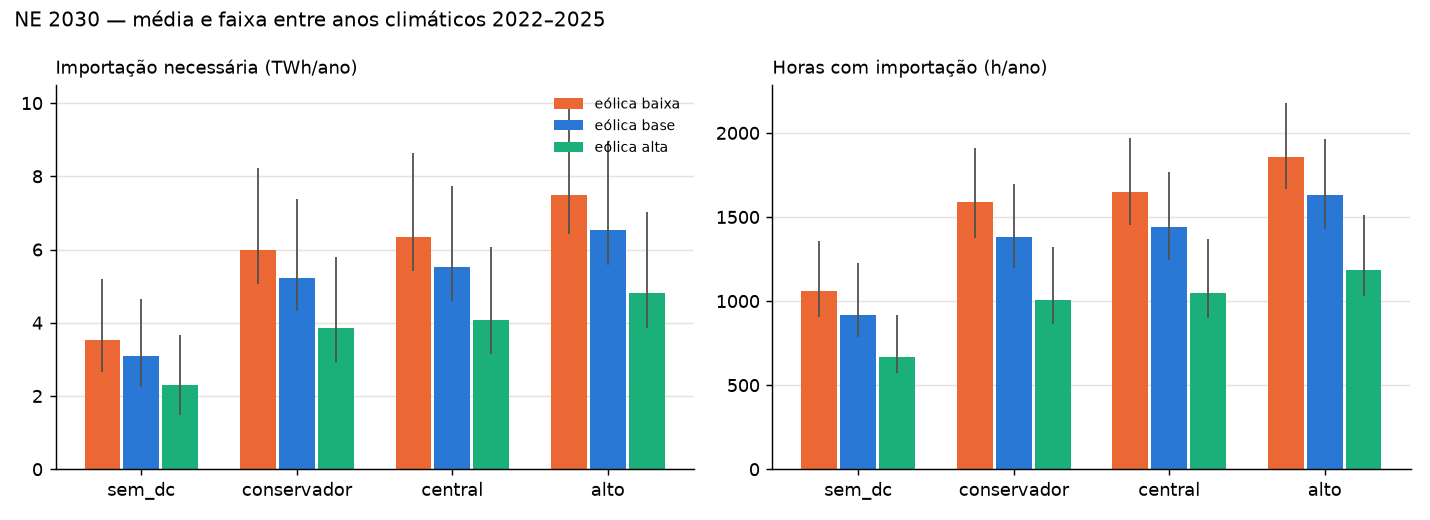
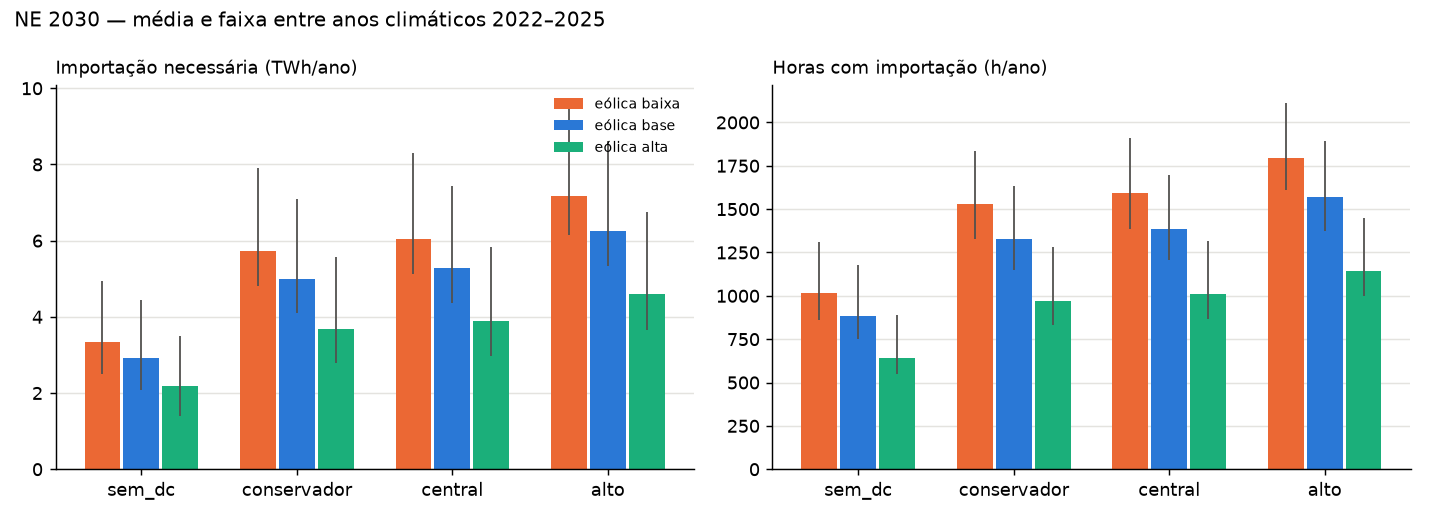
Revisão de hipóteses: base de carga e MMGD pela 2ª RQ do PLAN 2026-2030
- config/plan_2rq_ne.csv: carga global e MMGD do NE (2ª RQ, ago/2026)
- carga base 2030 sem DC = 16.180 MWmed; MMGD = 2.386 MWmed (sem dupla
  contagem com os cenários de data centers); PDE vira sensibilidade
- simulador: sensibilidades univariadas (PDE, MMGD, carga ±5%,
  hidráulica plana); resultados, relatório do Dia 2, STATUS e decisões 29-31

diff --git a/src/sim/deterministico.py b/src/sim/deterministico.py
@@ -4,8 +4,8 @@ Uso: python -m src.sim.deterministico
 Saídas: reports/sim/resultados_2030.csv, compensacao_eolica_2030.csv, resumo.md, figuras s*.png
 
 Para cada ano climático y (2022–2025), cenário de data centers e cenário eólico:
-  L_gross(t) = forma_y(t) × L̄_gross,2030                  (PDE referência)
-  MMGD(t)    = forma_MMGD,y(t) × MMGD̄_2030
+  L_gross(t) = forma_y(t) × L̄_gross,2030 sem DC          (2ª RQ PLAN 2026-2030)
+  MMGD(t)    = forma_MMGD,y(t) × MMGD̄_2030                (2ª RQ PLAN 2026-2030)
   G_c(t)     = hid_y(t) + ter_y(t) + k_eol,y·CF_eol,y(t)·Cap_eol + k_sol,y·CF_sol,y(t)·Cap_sol
   M(t)       = G_c(t) − [L_gross(t) − MMGD(t) + L_DC]      (regra 6; MMGD como geração distribuída)
   importação = max(0, −M); excedente = max(0, M)
@@ -62,14 +62,15 @@ def fleet_factors(X: pd.DataFrame) -> pd.DataFrame:
     return pd.DataFrame(rows).T
 
 
-def profiles(X: pd.DataFrame, y: int, c: dict, ff: pd.DataFrame, mmgd_fator: float | None = None) -> pd.DataFrame:
+def profiles(X: pd.DataFrame, y: int, c: dict, ff: pd.DataFrame, mmgd_MWmed: float | None = None,
+             L_gross_MWmed: float | None = None, hidraulica_plana: bool = False) -> pd.DataFrame:
     g = X[X.ano == y].set_index("t")
     p = pd.DataFrame(index=g.index)
-    Lg = c["carga"]["L_gross_media_MWmed"]["valor"]
+    Lg = L_gross_MWmed if L_gross_MWmed is not None else c["carga"]["L_gross_sem_dc_MWmed"]["valor"]
     p["L_gross"] = g.L_gross / g.L_gross.mean() * Lg
-    fm = mmgd_fator if mmgd_fator is not None else c["mmgd"]["fator_2025_2030"]["valor"]
-    p["MMGD"] = g.MMGD / g.MMGD.mean() * c["mmgd"]["base_2025_MWmed"]["valor"] * fm
-    p["hid"] = g.hid
+    mm = mmgd_MWmed if mmgd_MWmed is not None else c["mmgd"]["media_2030_MWmed"]["valor"]
+    p["MMGD"] = g.MMGD / g.MMGD.mean() * mm
+    p["hid"] = g.hid if not hidraulica_plana else pd.Series(g.hid.mean(), index=g.index)
     p["ter"] = g.ter
     p["cf_eol"] = g.cf_eol_pot * ff.loc[y, "k_eol"]
     p["cf_sol"] = g.cf_sol_pot.fillna(g.cf_sol_obs) * ff.loc[y, "k_sol"]
@@ -199,6 +200,28 @@ def run(X: pd.DataFrame | None = None):
     return R, pd.DataFrame(comp_rows), ff, pd.concat(dc_parts)
 
 
+def sensibilidades(X: pd.DataFrame, c: dict, d: dict, ff: pd.DataFrame) -> pd.DataFrame:
+    """Sensibilidades univariadas sobre o caso central (DC central, eólica base), pareadas por ano."""
+    cap_sol = c["solar"]["capacidade_2030_MW"]["valor"]
+    cap_eol = c["eolica"]["capacidade_2030_MW"]["base"]["valor"]
+    ldc = l_dc_2030("central", d)[0]
+    pde = c["carga"]["sensibilidade_pde"]
+    casos = {"referencia": {}, "sem_dc": {"ldc": 0.0},
+             "base_PDE_2035_(dc_embutido_descontado)": {"L": pde["L_gross_MWmed"], "ldc": ldc - pde["desconto_dc_embutido_MWmed"]},
+             "MMGD_baixa": {"mm": c["mmgd"]["faixa_sensibilidade_MWmed"]["valores"][0]},
+             "MMGD_alta": {"mm": c["mmgd"]["faixa_sensibilidade_MWmed"]["valores"][1]},
+             "carga_-5%": {"L": c["carga"]["L_gross_sem_dc_MWmed"]["valor"] * 0.95},
+             "carga_+5%": {"L": c["carga"]["L_gross_sem_dc_MWmed"]["valor"] * 1.05},
+             "hidraulica_plana": {"hp": True}}
+    rows = []
+    for nome, k in casos.items():
+        for y in c["anos_climaticos_calibracao"]:
+            p = profiles(X, y, c, ff, mmgd_MWmed=k.get("mm"), L_gross_MWmed=k.get("L"), hidraulica_plana=k.get("hp", False))
+            m = balance_metrics(margin(p, cap_eol, cap_sol, k.get("ldc", ldc)), c)
+            rows.append({"caso": nome, "ano_climatico": y, **m})
+    return pd.DataFrame(rows)
+
+
 def main() -> None:
     OUT.mkdir(parents=True, exist_ok=True)
     R, C, ff, P = run()
@@ -229,6 +252,12 @@ def main() -> None:
     axes[0].legend(frameon=False, fontsize=8)
     fig.suptitle("NE 2030 — média e faixa entre anos climáticos 2022–2025", x=0.01, ha="left", fontsize=11)
     fig.tight_layout(); fig.savefig(FIGURES / "s1_importacao_cenarios_2030.png", dpi=130); plt.close(fig)
+    c, d = load_cfg()
+    X = pd.read_parquet(PROCESSED / "ne_features_h.parquet")
+    X = X[X.t < "2026-11-01"].reset_index(drop=True)
+    SE = sensibilidades(X, c, d, ff)
+    SE.to_csv(OUT / "sensibilidades_2030.csv", index=False)
+    print(SE.groupby("caso", sort=False)[["importacao_TWh", "horas_importacao", "importacao_p95_MW"]].mean().round(2).to_string())
     print(ff.round(3).to_string())
     print(S.xs("mean", axis=1, level=1).to_string())
     print(C.groupby(["cenario_dc", "cenario_eolico"]).mean(numeric_only=True).round(0).to_string())

diff --git a/tests/test_cenarios_dc.py b/tests/test_cenarios_dc.py
@@ -27,3 +27,12 @@ def test_cenarios_referenciam_ids_existentes():
     for nome, cen in c["cenarios"].items():
         for comp in cen["componentes"]:
             assert set(comp.get("ids", [])) <= ids, nome
+
+
+def test_plan_2rq_ne_base_sem_dc():
+    p = pd.read_csv(CONFIG / "plan_2rq_ne.csv").set_index(["variavel", "ano"]).mwmed
+    of = pd.read_csv(CONFIG / "dc_trajetoria_oficial_ne.csv")
+    dc30 = of[(of.estudo == "2a RQ PLAN 2026-2030") & (of.ano == 2030) & (of.componente == "total")].mwmed.iat[0]
+    c = yaml.safe_load(open(CONFIG / "cenarios.yaml", encoding="utf-8"))
+    assert c["carga"]["L_gross_sem_dc_MWmed"]["valor"] == p[("carga_global", 2030)] - dc30 == 16180
+    assert c["mmgd"]["media_2030_MWmed"]["valor"] == p[("mmgd_total", 2030)]

diff --git a/STATUS.md b/STATUS.md
@@ -1,6 +1,6 @@
 # STATUS — Estudo Eólica × Data Centers (NE, 2030)
 
-Última atualização: 2026-11-11 · Etapas concluídas: **Dia 1** (ambiente, coleta, auditoria) e **Dia 2** (modelos, cenários, simulador determinístico) · Próxima: **Dia 3 — incerteza (Monte Carlo), sensibilidades e relatório final**.
+Última atualização: 2026-11-12 (revisão de hipóteses) · Etapas concluídas: **Dia 1** (ambiente, coleta, auditoria) e **Dia 2** (modelos, cenários, simulador determinístico) · Próxima: **Dia 3 — incerteza (Monte Carlo), sensibilidades e relatório final**.
 
 ## 1. Ambiente e repositório
 
@@ -8,7 +8,7 @@
 - Git local com identidade configurada só neste repositório (MateusMenezes65). Histórico em `git log`. Nenhum dado bruto, intermediário ou processado é versionado.
 - `AGENTS.md` e o plano orientador estão preservados. Onde divergem, vale o AGENTS.md (horizonte 2030).
 - Comandos reproduzíveis: README (Dia 1 e Dia 2).
-- Testes: `pytest -q` → **22 aprovados**:
+- Testes: `pytest -q` → **23 aprovados**:
   - fuso horário, agregação 30 min → hora, MW×h = MWh, cardinalidade da junção;
   - fechamento do balanço, quebra da MMGD, identidade carga global = líquida + MMGD;
   - extração do PDE e trajetória oficial de data centers;
@@ -39,7 +39,7 @@ Principais achados do Dia 1:
 Relatório: `reports/dia2_modelos_cenarios.md`.
 
 - **PDE 2035** (`config/pde2035_extraido.csv`, 213 valores, cada um com fonte):
-  - carga do NE, referência: 16.340 MWmed em 2030;
+  - carga do NE, referência: 16.340 MWmed em 2030 (agora só como sensibilidade);
   - MMGD do Brasil: 40,0 → 60,3 GW;
   - expansão indicativa de eólica no SIN: +5,1 GW até 2030;
   - exportação do NE limitada a 21 GW a partir de 2030; nenhum limite de importação documentado.
@@ -47,11 +47,11 @@ Relatório: `reports/dia2_modelos_cenarios.md`.
   - trajetória oficial da 2ª RQ do PLAN 2026–2030: 2.098 MWmed no NE em 2030;
   - inventário de 17 projetos (`config/data_centers_ne.csv`);
   - cenários em `config/cenarios_dc.yaml`: sem_dc 0, conservador 1.886, central 2.098, alto 2.753 MWmed.
-- **Cenários do balanço** (`config/cenarios.yaml`):
+- **Cenários do balanço** (`config/cenarios.yaml`), revisados com o usuário em 2026-11-12:
+  - carga base sem data centers = 16.180 MWmed e MMGD = 2.386 MWmed, ambos da 2ª RQ do PLAN 2026–2030 (`config/plan_2rq_ne.csv`); assim não há dupla contagem com os cenários de data centers;
   - eólica baixa / base / alta = 32,3 / 34,3 / 39,4 GW;
   - solar 13,5 GW;
-  - MMGD ≈ 2,3 GWmed;
-  - despacho hidrotérmico histórico.
+  - despacho hidrotérmico histórico, com hidráulica plana como sensibilidade.
 - **Modelos** (`src/models/backtest.py`), com HGB contra baselines em 12 dobras mensais de 2025:
 
 | Alvo | Ganho de MAE em 1 h | Ganho de MAE em 24 h |
@@ -67,30 +67,28 @@ Relatório: `reports/dia2_modelos_cenarios.md`.
   - CF solar potencial: MAE de 0,024–0,027.
 - **CF eólico potencial em 2025 (0,48):** explicado por vento mais forte e frota mais nova. O simulador corrige o nível de cada ano climático com um fator de frota.
 - **Simulador determinístico** (`src/sim/deterministico.py`), eólica base, média dos anos climáticos 2022–2025:
-  - importação: sem_dc 3,1 TWh e 920 h → central 5,5 TWh e 1.440 h → alto 6,5 TWh e 1.629 h;
-  - eólica que compensa o cenário central: 4,7 GW pelo critério de energia anual, mas 10,5 GW para manter a importação anual (regra 11);
+  - importação: sem_dc 2,9 TWh e 883 h → central 5,3 TWh e 1.388 h → alto 6,3 TWh e 1.570 h;
+  - eólica que compensa o cenário central: 4,7 GW pelo critério de energia anual, mas 10,6 GW para manter a importação anual (regra 11);
+  - sensibilidades no caso central: carga ±5% leva a importação a 4,2–6,5 TWh; hidráulica plana, a 6,8 TWh; base do PDE, a 5,2 TWh; a faixa de MMGD, a 5,2–5,4 TWh;
   - cerca de 87% da energia dos data centers cairia em horas de excedente regional (potencial de absorção, não corte evitado).
 - **Classificador de cortes:** discrimina bem os motivos ENE e CNF e o total (ROC-AUC de 0,86 a 0,95), mas a calibração é instável por mudança de regime. Fica só como uso descritivo; REL não é previsível.
 
 ## 4. Limitações e lacunas abertas
 
 - Despacho hidrotérmico histórico, sem redespacho. Fatores de frota escalares. Carga de data centers flat. Só 4 anos climáticos no determinístico.
-- Possível dupla contagem com o PDE (sensibilidade de −258 MWmed ainda não rodada).
+- A carga base vem do PLAN (sem data centers); o PDE entra só como sensibilidade.
 - Inventário sem MW para ExportData, Tecto Pecém e DC Xingó. Nota técnica completa da 2ª RQ não localizada.
 - P2 não coletados: ENSO, hidrologia do São Francisco, IBC-Br e limites documentais de importação.
 - Os dados de 2026 são complementares e há anomalias no balanço de jan–mai/2026.
 
 ## 5. Decisões pendentes do usuário
 
-Nenhuma bloqueante. Decisões tomadas: L_base = carga líquida da API + MMGD separada; data centers pela opção A + C, com o cenário alto aceito; ERA5 1995–2021 baixado. Hipóteses novas do Dia 2 (decisões 20–28 em `docs/decisoes.md`) que o usuário pode querer revisar:
-- capacidades eólicas dos cenários (a alta aloca toda a expansão indicativa do PDE ao NE);
-- MMGD de 2030 pela taxa de crescimento do Brasil;
-- despacho hidrotérmico histórico.
+Nenhuma. Revisão de hipóteses concluída em 2026-11-12 (decisões 29–31): base de carga e MMGD pela 2ª RQ do PLAN; eólica alta mantida em 39,4 GW; despacho hidrotérmico histórico com hidráulica plana como sensibilidade.
 
 ## 6. Próxima tarefa (Dia 3)
 
 1. Gerar perfis sintéticos de 1995–2021 com as funções de transferência. Os pesos dos pontos eólicos e solares devem ser fixados na frota atual. Validar a extrapolação nos anos fora do treino.
 2. Monte Carlo por anos climáticos inteiros e/ou blocos, com sementes fixas e os mesmos sorteios em todos os cenários; aumentar o número de sorteios até as métricas estabilizarem.
-3. Sensibilidades: crescimento da carga (PDE inferior e superior), MMGD (1,27 a 1,78), utilização e rampa dos data centers, dupla contagem com o PDE, capacidade eólica, limites de importação e redespacho hidrotérmico.
+3. Sensibilidades: nível da carga, MMGD, utilização e rampa dos data centers, base do PDE, capacidade eólica, limites de importação e hidráulica plana. As univariadas já existem no determinístico; no Dia 3, levá-las ao Monte Carlo.
 4. Diferenças pareadas entre cenários, separando incerteza amostral de escolha de cenário.
 5. Relatório final reproduzível.

diff --git a/docs/decisoes.md b/docs/decisoes.md
@@ -135,3 +135,16 @@ Formato: decisão — justificativa — status (adotada / provisória / pendente
     adotada (uso descritivo).
 28. **Backtesting**: 12 dobras mensais em 2025 com janela expansível, HGB com hiperparâmetros
     fixos e semente 20261111; o clima ERA5 conta como previsão perfeita (limite superior). — adotada.
+
+## Revisão de hipóteses com o usuário (2026-11-12)
+
+29. **Base de carga de 2030 = 2ª Revisão Quadrimestral do PLAN 2026–2030** (ONS/EPE/CCEE,
+    ago/2026). Carga global do NE em 2030 = 18.278 MWmed, menos 2.098 MWmed de DC de Rede
+    Básica = **16.180 MWmed sem DC**. **MMGD em 2030 = 2.386 MWmed** (oficial). Valores em
+    `config/plan_2rq_ne.csv`. Substitui as decisões 23 (carga do PDE, MMGD estimada) e a
+    sensibilidade de dupla contagem. O PDE (16.340 MWmed, −258 MWmed) fica como sensibilidade. —
+    adotada pelo usuário.
+30. **Eólica alta mantida**: 39,4 GW (base + 5,1 GW da expansão indicativa do PDE, toda no NE). —
+    confirmada pelo usuário.
+31. **Despacho hidrotérmico histórico** como caso central, com **hidráulica plana** (mesma
+    energia anual, perfil constante) como sensibilidade pessimista. — adotada pelo usuário.
